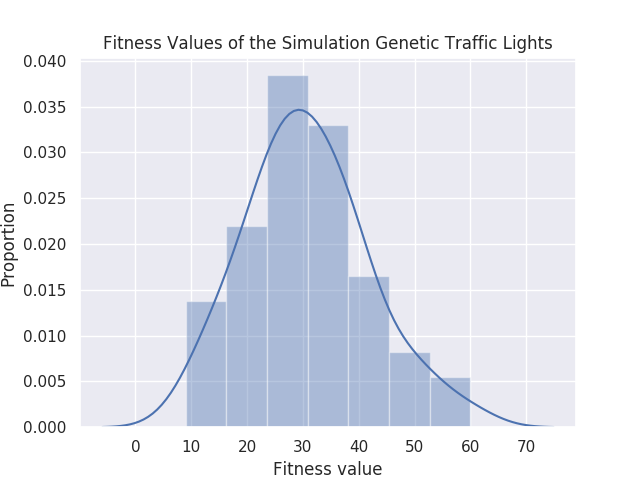
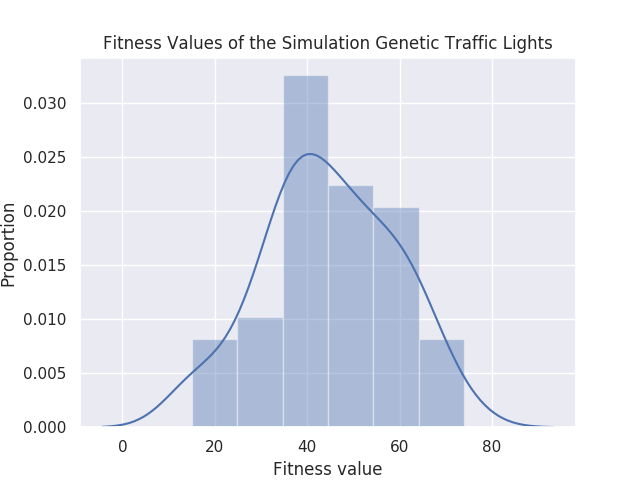
added convergence criteria and best historic gene

diff --git a/src/experiments.py b/src/experiments.py
@@ -59,16 +59,17 @@ def run_all_genetic(city,steps_simulation,n_simulations):
     print('begin genetics')
     average_fitness = []
     all_fitness = []
-    best_individual = np.load('../data/best_4_generations.npy')
+    best_individual = np.load('../data/best_500_generations.npy')
     lights_gene = np.reshape(best_individual, [len(city.grid.roads_with_lights), max_sim_steps]).T
 
     for single_simulation in range(n_simulations):
-        print('Simulation:', single_simulation)
+
         for i in range(steps_simulation):
             lights = lights_gene[i, :]
             city.step(lights)
             # sleep(0.1)
         fitness = city.cars_despawned
+        print('Simulation:', single_simulation, 'fitness:',fitness)
         average_fitness.append(fitness)
         city.clean()
         all_fitness.append(fitness)
@@ -97,7 +98,7 @@ if __name__ == "__main__":
     city = City(rows, cols, n_intersections, seed)
 
     # Run
-    #run_all_genetic(city,max_sim_steps,num_sim)
+    run_all_genetic(city,max_sim_steps,num_sim)
     city.clean()
     run_all_random(city, max_sim_steps,num_sim)
     city.clean()

diff --git a/src/GA/optimize.py b/src/GA/optimize.py
@@ -30,6 +30,8 @@ def run_genetics(rows, cols, n_intersections, seed, max_generations=40, max_sim_
     best_gene = []
     best_performance = 0
     for generation in range(max_generations):
+        if population.convergence_criteria():
+            break
         init = time()
         print('Step:', generation, end=' ')
         args = generate_args(cities, number_of_lights, population, num_sim, max_sim_steps)
@@ -45,6 +47,8 @@ def run_genetics(rows, cols, n_intersections, seed, max_generations=40, max_sim_
 
         best_performance, best_gene, pop_size = population.update_genes()
         print('| New pop size:', pop_size, '| Best fitness:', best_performance, '| Took', timedelta(seconds=(time() - init)), '| Best gene:', best_gene)
+    best_performance = population.best_historical_performance
+    best_gene = population.best_historical_individual
     return best_performance, best_gene
 
 

diff --git a/src/main.py b/src/main.py
@@ -43,8 +43,8 @@ if __name__ == "__main__":
 
     # Run
     best_performance, best_gene = run_genetics(rows, cols, n_intersections, seed, max_generations, max_sim_steps, num_sim)
-    print('Finished training')
-    np.save('../data/best_' + str(max_generations)+'_generations.npy',best_gene.gene)
+    print('Finished training, best performance:', best_performance)
+    np.save('../data/best_' + str(max_generations)+'_generations.npy',best_gene)
 
     # Show best
     if GRAPHICS:

diff --git a/src/GA/Population.py b/src/GA/Population.py
@@ -43,7 +43,7 @@ class Population(object):
         self.objects_codified = objects_codified
         if self.truncation_size % 2 != 0:
             self.truncation_size -= 1
-        self.number_of_saved_performances = 15
+        self.number_of_saved_performances = 20
         self.best_performances = queue.Queue(self.number_of_saved_performances)
         self.best_individuals = queue.Queue(self.number_of_saved_performances)
         self.best_historical_individual = None
